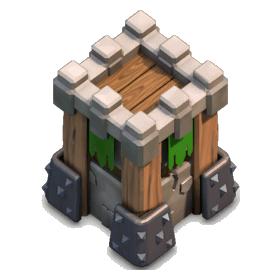
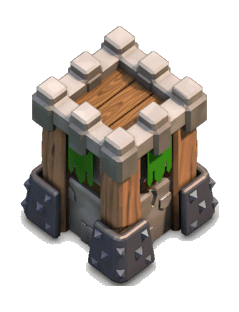
Site update

diff --git a/css/app.css b/css/app.css
@@ -102,7 +102,7 @@ h1 {
     left: 0;
     right: 0;
     bottom: 0;
-    background-size: auto 100%;
+    background-size: contain;
     background-position: center center;
     background-repeat: no-repeat;
     -webkit-transition: -webkit-transform 0.4s;
@@ -256,8 +256,10 @@ h1 {
       background: url("../images/grass_building.png"); }
     .grid .building.army_camp:before {
       background-size: 60%;
-      background-position: 45% 35%;
-      background-repeat: no-repeat; }
+      background-position: 42% 46%; }
+    .grid .building.wall:before {
+      background-size: 80%;
+      background-position: center top; }
     .view-mode .grid .building:before {
       -webkit-transform: rotateZ(45deg);
       -moz-transform: rotateZ(45deg);
